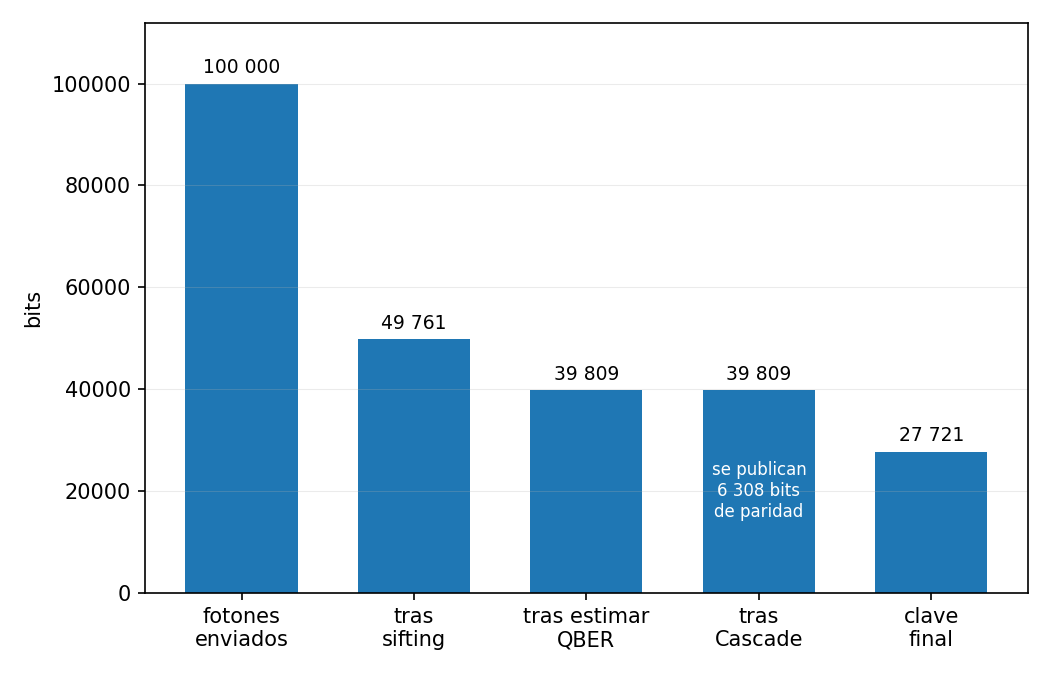
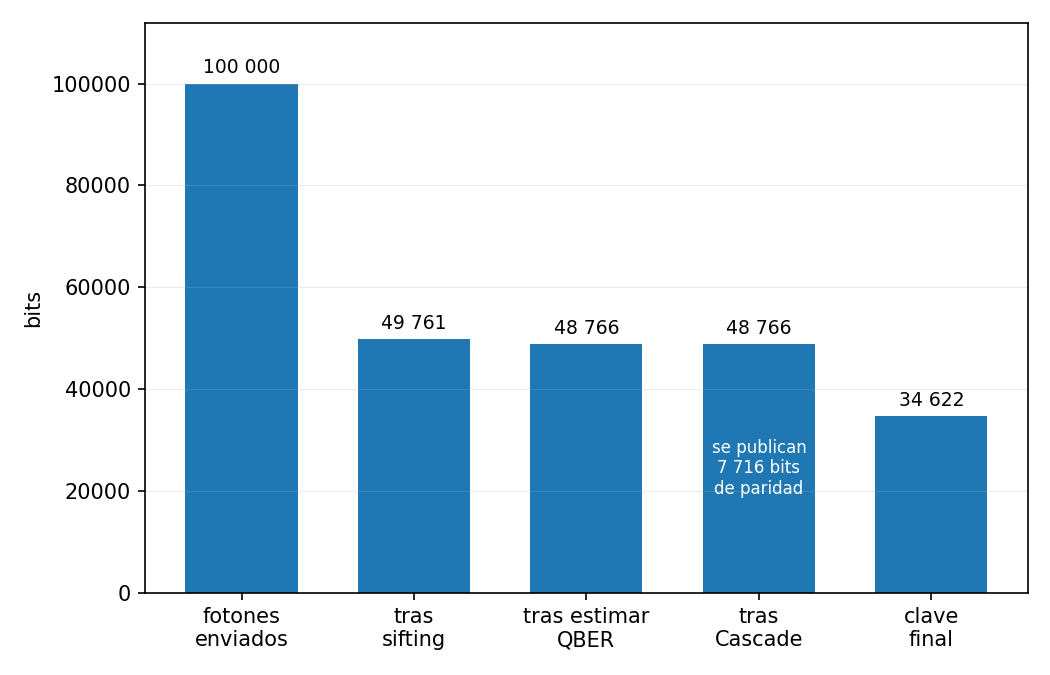
feat(qkd): fraccion de muestra del QBER optimizada dinamicamente (#13)
* feat(qkd): fraccion de muestra del QBER optimizada dinamicamente

Rescatado de la propuesta de Gonzalo en el PR #10 (que partia de un
punto muy antiguo del historial y no se pudo mergear tal cual);
reimplementado sobre el protocol.py real de main, que ya incluye
Cascade y amplificacion de privacidad.

- Nueva _fraccion_muestra_optima(sifted_len): en vez de sacrificar
  siempre un 20% fijo de la clave cribada para estimar el QBER, apunta
  a un tamano de muestra fijo (~800 bits), suficiente para estabilizar
  la sigma binomial de la estimacion sin sacrificar mas clave de la
  necesaria cuando N es grande. Acotada entre 2% (N masivo) y 40% (N
  pequeño) para no degenerar con protocolos cortos.

- run_protocol() y run_until_qber(): sample_fraction pasa a ser
  opcional (float | None = None). Si no se especifica, se usa la
  fraccion optima automatica; si se especifica un valor concreto, se
  respeta tal cual SIN pisarlo. Este matiz es deliberado: la version
  original de Gonzalo sustituia sample_fraction incondicionalmente,
  lo que habria roto en silencio a) test_muestra_vacia_lanza_error
  (necesita forzar sample_fraction=0.0 para provocar el ValueError) y
  b) el slider 'Fraccion de muestra' del dashboard, que dejaria de
  tener efecto.

- tests/qkd/test_protocol.py: test_barrido_de_eve actualizado. El
  caso limite documentado (Q justo bajo el umbral del 11% pero ell<=0
  por la ineficiencia real de Cascade) se desplaza de p=0.4 a p=0.42:
[…]

diff --git a/src/qkd/protocol.py b/src/qkd/protocol.py
@@ -20,13 +20,34 @@ logger = logging.getLogger(__name__)
 # reconciliacion ideal (f = 1) queda clave destilable.
 QBER_THRESHOLD = 0.11
 
+# Bits objetivo de muestra publica para estimar el QBER cuando no se pide
+# una sample_fraction concreta. 800 basta para estabilizar la sigma
+# binomial sin sacrificar demasiada clave final con N grandes (Gonzalo,
+# tarea 2.x). Acotado entre 2% (N masivo) y 40% (N pequeño).
+_MUESTRA_QBER_OBJETIVO = 800
+_MUESTRA_FRACCION_MIN = 0.02
+_MUESTRA_FRACCION_MAX = 0.40
+
+
+def _fraccion_muestra_optima(sifted_len: int) -> float:
+    """Fraccion de muestra que apunta a ~_MUESTRA_QBER_OBJETIVO bits.
+
+    Se usa SOLO cuando el llamador no especifica sample_fraction: nunca
+    sustituye un valor pedido explicitamente (lo necesitan intactos
+    test_muestra_vacia_lanza_error y el slider del dashboard).
+    """
+    if sifted_len == 0:
+        return 0.0
+    fraccion = _MUESTRA_QBER_OBJETIVO / sifted_len
+    return float(np.clip(fraccion, _MUESTRA_FRACCION_MIN, _MUESTRA_FRACCION_MAX))
+
 
 def run_protocol(
     n_photons: int,
     rng: np.random.Generator,
     eve_rate: float = 0.0,
     noise: float = 0.0,
-    sample_fraction: float = 0.2,
+    sample_fraction: float | None = None,
     backend: Literal["qiskit", "numpy"] = "numpy",
 ) -> ProtocolResult:
     """Recorre la cadena completa: QRNG -> BB84 -> QBER -> Cascade -> privacidad.
@@ -48,8 +69,15 @@ def run_protocol(
     )
     sifted_len = int(sifted.alice.size)
 
-    # --- 4. Estimacion del QBER sacrificando una muestra publica ---
-    est = estimate_qber(sifted, sample_fraction, rng)
+    # --- 4. Estimacion del QBER: si no se especifica sample_fraction, se
+    # calcula automaticamente (ver _fraccion_muestra_optima); si se
+    # especifica, se respeta tal cual.
+    fraccion = (
+        sample_fraction
+        if sample_fraction is not None
+        else _fraccion_muestra_optima(sifted_len)
+    )
+    est = estimate_qber(sifted, fraccion, rng)
 
     def _abort(reason: str) -> ProtocolResult:
         """Resultado de aborto homogeneo: sin clave, con motivo legible."""
@@ -112,7 +140,7 @@ def run_until_qber(
     rng: np.random.Generator,
     eve_rate: float = 0.0,
     noise: float = 0.0,
-    sample_fraction: float = 0.2,
+    sample_fraction: float | None = None,
 ) -> QberEstimate:
     """Version corta de la cadena, solo hasta la estimacion del QBER.
 
@@ -120,6 +148,9 @@ def run_until_qber(
     Usa siempre el backend numpy: es el unico donde Eve (intercept-resend)
     esta modelada, y el unico viable en tiempo para los barridos de 40 000
     fotones que hacen estos tests (ver run_bb84 en bb84.py).
+
+    Si no se especifica sample_fraction, se calcula automaticamente (ver
+    _fraccion_muestra_optima); si se especifica, se respeta tal cual.
     """
     sifted = run_bb84(
         n_photons=n_photons,
@@ -128,4 +159,10 @@ def run_until_qber(
         noise=noise,
         backend="numpy",
     )
-    return estimate_qber(sifted, sample_fraction, rng)
+    sifted_len = int(sifted.alice.size)
+    fraccion = (
+        sample_fraction
+        if sample_fraction is not None
+        else _fraccion_muestra_optima(sifted_len)
+    )
+    return estimate_qber(sifted, fraccion, rng)

diff --git a/tests/qkd/test_protocol.py b/tests/qkd/test_protocol.py
@@ -29,7 +29,7 @@ def test_cadena_completa_con_eve_aborta():
     assert "QBER" in r.abort_reason
 
 
-@pytest.mark.parametrize("p", [0.0, 0.2, 0.4, 0.6, 0.8, 1.0])
+@pytest.mark.parametrize("p", [0.0, 0.2, 0.42, 0.6, 0.8, 1.0])
 def test_barrido_de_eve(p):
     """Q(p) = p/4, y el protocolo aborta exactamente cuando no puede
     destilar clave.
@@ -37,11 +37,20 @@ def test_barrido_de_eve(p):
     Nota honesta para el equipo (difiere de la version idealizada de la
     guia): el umbral del 11% asume reconciliacion IDEAL (f = 1). Con el
     f_EC real de Cascade (~1.15-1.2 medido en test_eficiencia_razonable),
-    en p = 0.4 (Q ~ 10%, justo bajo el umbral) la formula
-    ell = n(1 - h(Q)) - leak_ec - 2 log2(1/eps) sale <= 0 y el protocolo
-    aborta por longitud de clave, no por QBER. Es el comportamiento
-    correcto: la formula absorbe la ineficiencia de la reconciliacion sin
-    mentir (misma logica que el plan B de la seccion 5.5.7 de la guia).
+    justo bajo el umbral la formula
+    ell = n(1 - h(Q)) - leak_ec - 2 log2(1/eps) puede salir <= 0 y el
+    protocolo aborta por longitud de clave, no por QBER. Es el
+    comportamiento correcto: la formula absorbe la ineficiencia de la
+    reconciliacion sin mentir (misma logica que el plan B de la seccion
+    5.5.7 de la guia).
+
+    p = 0.42 (no 0.4) desde la optimizacion de sample_fraction (tarea
+    2.x, Gonzalo): al sacrificar menos bits en la muestra del QBER (~800
+    en vez de 0.2*sifted_len), queda mas clave real disponible y el caso
+    limite se desplaza. Se comprobo con un barrido fino (0.38 a 0.46,
+    misma semilla) que en p = 0.4 y 0.38 ya SALE clave (ell > 0) y que
+    el aborto por longitud reaparece a partir de p ~ 0.42; es una
+    consecuencia esperada de la mejora, no una regresion.
     """
     r = run_protocol(
         n_photons=40_000, eve_rate=p, noise=0.0, rng=np.random.default_rng(1)
@@ -54,8 +63,8 @@ def test_barrido_de_eve(p):
         assert r.aborted
         assert "QBER" in (r.abort_reason or "")
         assert r.final_key is None
-    elif p == 0.4:
-        # Zona limite (Q ~ 10%): aborta por ell <= 0, con motivo legible
+    elif p == 0.42:
+        # Zona limite (Q ~ 9%): aborta por ell <= 0, con motivo legible
         # que lo distingue del aborto por umbral.
         assert r.aborted
         assert "clave" in (r.abort_reason or "")
